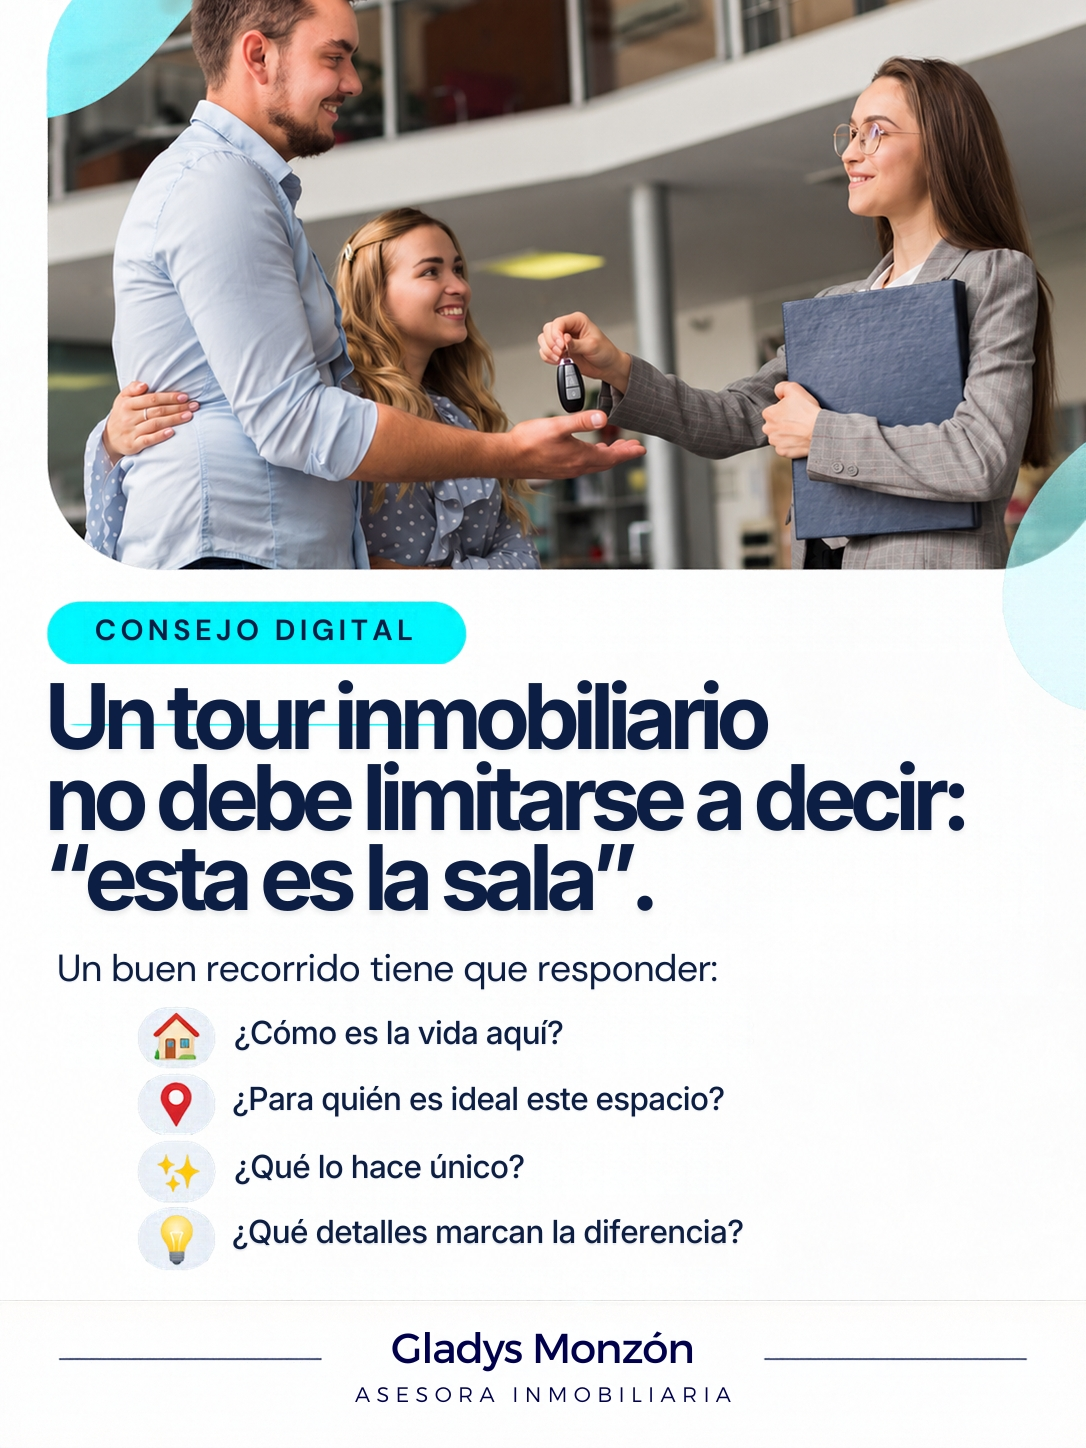
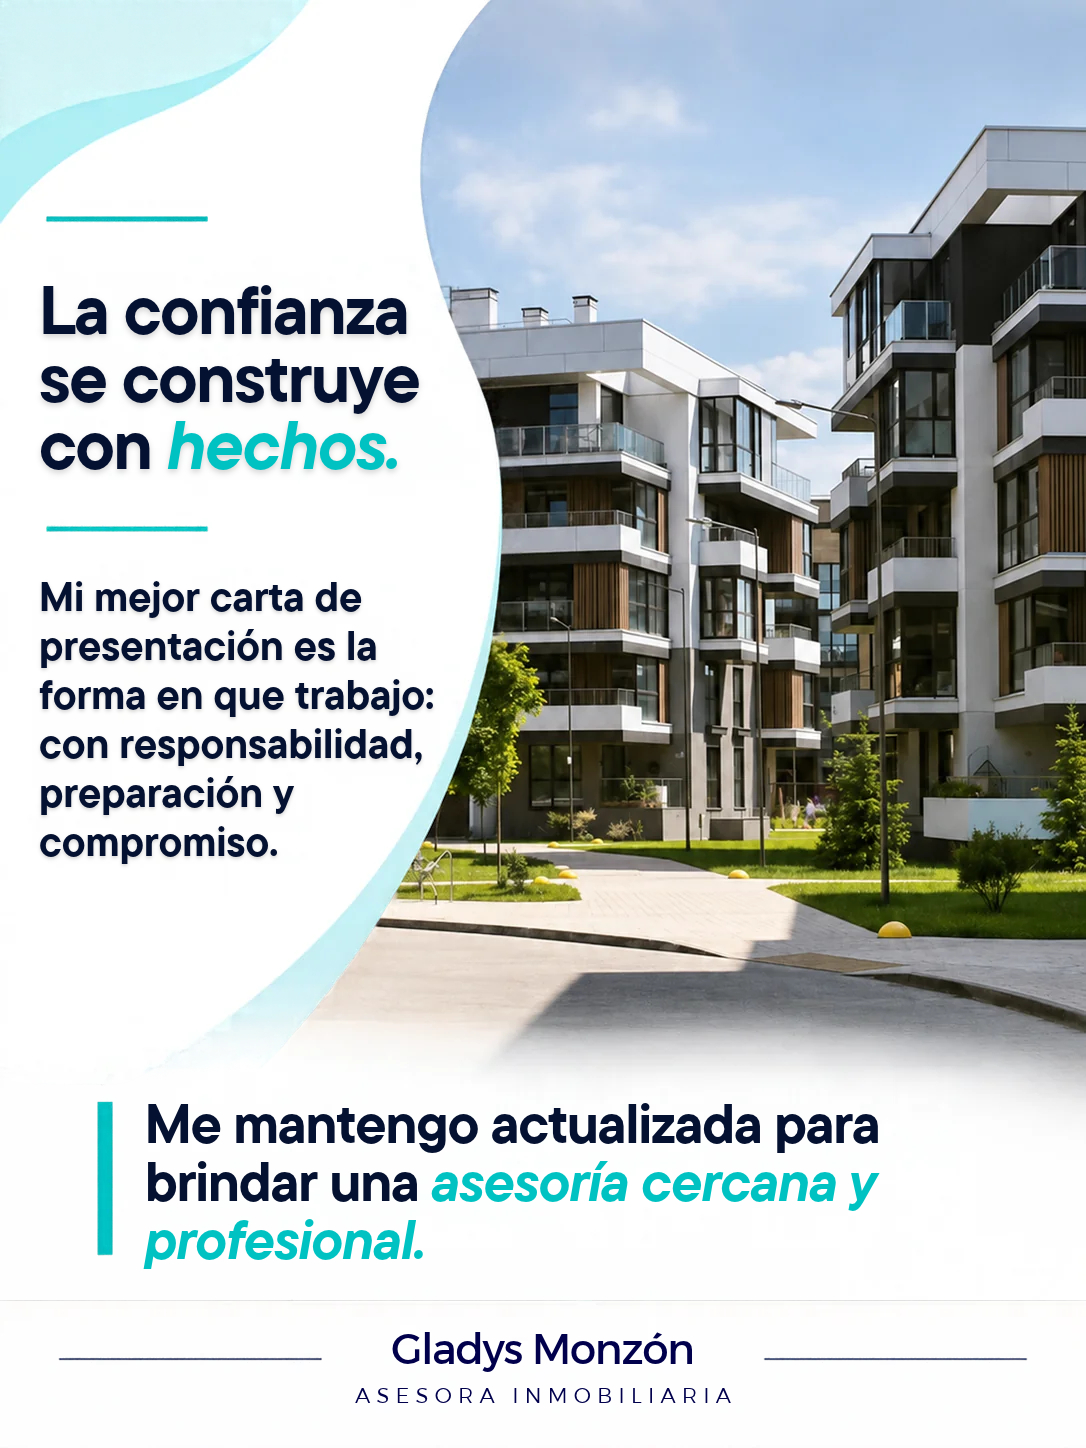
Add files via upload

diff --git a/data.js b/data.js
@@ -6,73 +6,82 @@ const CONFIG_SEMANAL = {
     whatsappPublicaciones: "994 135 860",
     whatsappDestino: "",
     titulo: "Calendario Noviembre 2026",
-    rangoFechas: "Semana del martes 10 al sábado 14 de noviembre",
+    rangoFechas: "Semana del martes 17 al sábado 21 de noviembre",
     publicaciones: [
         {
             tipo: "imagen",
-            diaSemana: "Martes 10 de noviembre",
-            imagenes: ["img/10.jpg"],
-            copy: `🏡 EL PROFESIONALISMO NO ES SABERLO TODO.
+            diaSemana: "Martes 17 de noviembre",
+            imagenes: ["img/17.jpg"],
+            copy: `🏡 Lo que no ves detrás de una publicación inmobiliaria
 
-Es saber escuchar, investigar y encontrar las respuestas correctas.
+Cada propiedad publicada tiene un trabajo previo:
 
-En el sector inmobiliario, la confianza no se gana aparentando experiencia, sino demostrando compromiso, transparencia y preparación.
+🔎 Investigar el mercado.
+📋 Verificar la información.
+🤝 Coordinar con propietarios.
+📲 Dar seguimiento a cada detalle.
 
-✨ Porque una buena asesora no improvisa respuestas, ofrece soluciones.`
+Mostrar una propiedad toma minutos, pero comunicarla con responsabilidad requiere dedicación y compromiso.`
+        },
+
+        {
+            tipo: "video",
+            diaSemana: "Jueves 19 de noviembre",
+            imagenes: ["img/19.jpg"],
+            copy: `🏡 ¡VIVE EN LINCE CON TODAS LAS COMODIDADES!
+
+💰 Alquiler: US$ 880 mensuales
+
+Moderno departamento amoblado y equipado, con espacios acogedores y tecnología para tu comodidad.
+
+✨ Características:
+
+🛏 3 dormitorios | 2 baños
+🏢 Piso 9 con balcón y vista a la calle
+🍳 Cocina equipada y gas Cálidda
+🚗 1 cochera en sótano
+🔐 Cerradura inteligente y Alexa
+🌇 Áreas comunes: Gimnasio, terraza con parrilla y sala de bar.
+🐾 ¡Se aceptan mascotas!
+
+📲 ¡Agenda tu visita y conoce tu próximo hogar!`
         },
 
         {
             tipo: "imagen",
-            diaSemana: "Jueves 12 de noviembre",
-            imagenes: ["img/12.jpg"],
-            copy: `🏡 ¡ESTE DEPA EN SURCO PODRÍA TENER PRONTO NUEVO DUEÑO! 🌳
+            diaSemana: "Viernes 20 de noviembre",
+            imagenes: ["img/20.jpg"],
+            copy: `🏡 La confianza se construye con hechos.
 
-Un hermoso flat de estreno frente al parque Los Arquitectos, con excelente iluminación y espacios modernos.
+Mi mejor carta de presentación es la forma en que trabajo: con responsabilidad, preparación y compromiso.
 
-📍 Santiago de Surco
+✨ Me mantengo actualizada para brindar una asesoría cercana y profesional.
 
-
-✅ 108.41 m² + balcón de 7.10 m²
-✅ 3 dormitorios y sala de estar
-✅ Cocina abierta con isla de cuarzo
-✅ Cochera doble disponible por separado
-
-✨ ¿Buscas una propiedad con estas características?
-
-📩 Escríbeme y encontremos tu próximo hogar.`
+Porque la confianza no solo se promete, se demuestra en cada paso.`
         },
 
         {
             tipo: "video",
-            diaSemana: "Viernes 13 de noviembre",
-            imagenes: ["img/13.jpg"],
-            copy: `🏡✨ ¡HAY MUCHO MÁS DETRÁS DE CADA PROPIEDAD!
+            diaSemana: "Sábado 21 de noviembre",
+            imagenes: ["img/21.jpg"],
+            copy: `🏡 ¡DÚPLEX CON AMPLIA TERRAZA EN SURCO!
 
-Visitas, nuevos retos, experiencias y pequeños detalles que hacen especial mi trabajo inmobiliario.
+💰 Venta: US$ 240,000
 
-En Instagram quiero mostrarte ese lado más cercano y auténtico de mi profesión, compartir consejos útiles y llevarte conmigo en este camino.
+Disfruta de la comodidad de una casa con la practicidad de un departamento. Espacios amplios, luz natural y una terraza ideal para compartir en familia.
 
-📲 ¿Me acompañas? Sígueme en Instagram y descubre todo lo que hay detrás de cada llave. 🔑`
-        },
+✨ Características:
 
-        {
-            tipo: "video",
-            diaSemana: "Sábado 14 de noviembre",
-            imagenes: ["img/14.jpg"],
-            copy: `🌿 ¡GRAN OPORTUNIDAD DE INVERSIÓN EN PACHACÁMAC!
+📐 240 m² de área ocupada | 2 niveles
+🛏 3 dormitorios + ambiente adicional
+🚿 3 baños
+🍳 Cocina amplia y lavandería
+🌿 Terraza privada de más de 100 m²
+🚗 2 cocheras paralelas + depósito
+📍 3.er y 4.º piso, zona residencial de Santiago de Surco.
+🐾 ¡Se aceptan mascotas!
 
-Amplio terreno en El Guayabo, ideal para quienes buscan invertir en una zona rodeada de naturaleza.
-
-📍 Ubicación: Pachacámac – El Guayabo
-💰 Precio: USD 359,000
-
-✅ 3,726 m² de terreno
-✅ Superficie plana y totalmente cercada
-✅ Ubicado junto a El Estadio
-✅ Cuenta con una construcción para demoler
-✅ Zona agrícola, con habilitación urbana indicada en la documentación
-
-✨ Un terreno con espacio y potencial para tu próximo proyecto.`
+📲 ¡Agenda tu visita y descubre tu próximo hogar!`
         }
     ]
 };
